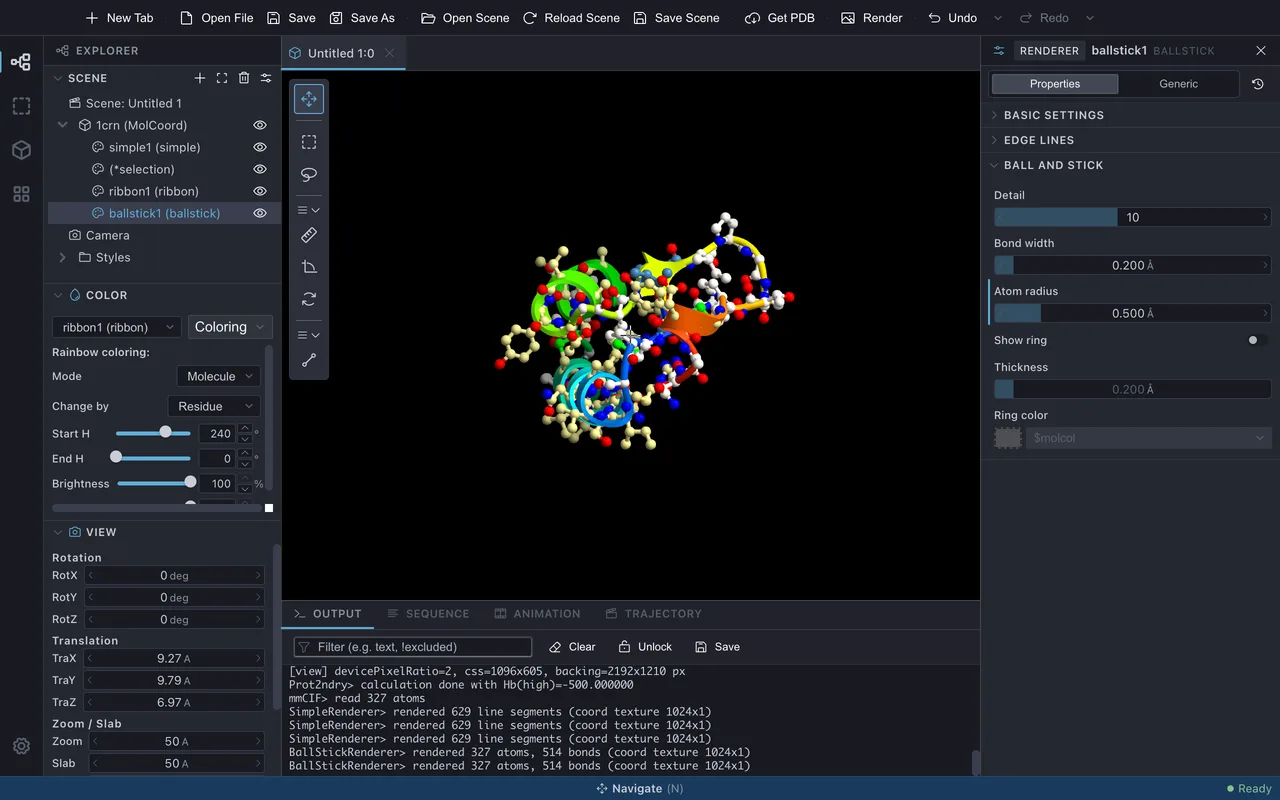
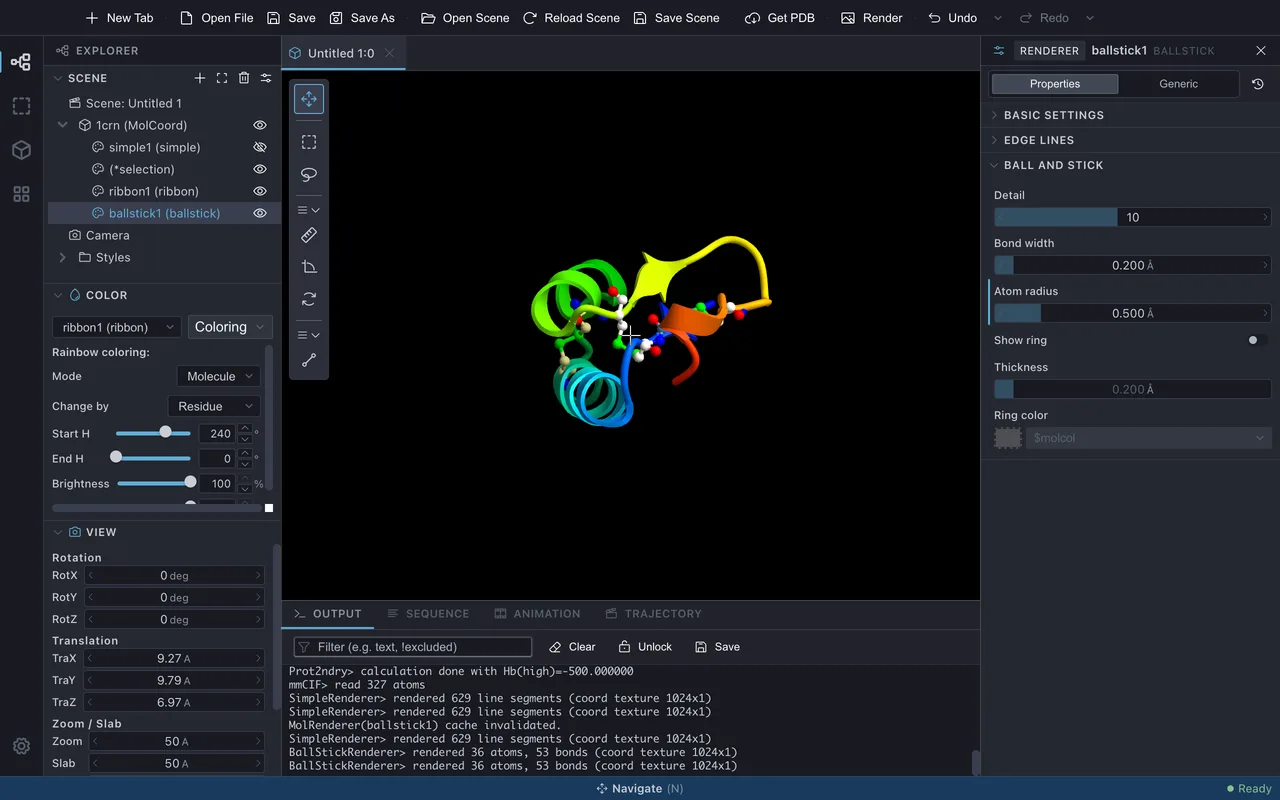
Show ballstick on the disulfide cysteines via the selection builder
Applying ballstick to the whole molecule is not how it is used in
practice. The quick tour now creates it with a selection composed in the
selection builder (Term tab, keyword resn, value CYS from the candidate
list, Set), introducing the builder along the way, and then hides the
now-redundant simple renderer with the scene tree's eye icon (replacing
the standalone bullet about the eye toggle).

The spec drives the builder popover end-to-end, asserts the committed
expression, and verifies via the render log that the renderer draws far
fewer atoms than the whole molecule (36 vs 327). New sceneTree helpers
toggle and inspect a row's visibility eye. Three new shots (builder,
filled dialog, tree with simple1 hidden) and refreshed result images.

Changed region(s): [[0.375, 0.25, 0.625, 0.5625], [0.2188, 0.8125, 0.5938, 0.9688]]

diff --git a/docs-verify/specs/quick-tour.spec.ts b/docs-verify/specs/quick-tour.spec.ts
@@ -5,7 +5,7 @@
  * test.step carries the section wording so the two can be diffed by grep.
  * Update this spec whenever the page changes (and vice versa).
  */
-import { test, expect } from '@playwright/test';
+import { test, expect, type Locator } from '@playwright/test';
 import * as fs from 'node:fs';
 import { CueMolHarness } from '../fixtures/app';
 import { artifacts } from '../support/env';
@@ -17,7 +17,14 @@ import {
     expectDialogClosed,
     expectSaveDialog,
 } from '../helpers/dialogs';
-import { expectRow, selectRow, openInInspector, clickSceneToolbar } from '../helpers/sceneTree';
+import {
+    expectRow,
+    selectRow,
+    openInInspector,
+    clickSceneToolbar,
+    toggleRowVisibility,
+    rowVisibilityToggle,
+} from '../helpers/sceneTree';
 import { setNumericProperty } from '../helpers/inspector';
 import { selectColorTarget, chooseColoring } from '../helpers/colorPane';
 import { rotateView, zoomView } from '../helpers/molView';
@@ -103,13 +110,18 @@ test.describe.serial('クイックツアー', { tag: '@net' }, () => {
         // Playwright cannot click; the Scene panel toolbar's Add button
         // opens the same New Renderer flow, so the dialog contents are
         // still verified end-to-end.
-        const addRenderer = async (type: string, expectName: string, shotId?: string) => {
+        const addRenderer = async (
+            type: string,
+            expectName: string,
+            opts: { shotId?: string; configure?: (dlg: Locator) => Promise<void> } = {},
+        ) => {
             await selectRow(harness.window, OBJ_NAME);
             await clickSceneToolbar(harness.window, 'add');
             const dlg = dialog(harness.window, 'New Renderer');
             await expect(dlg).toBeVisible();
             await dlg.locator('#rend-type').selectOption(type);
-            if (shotId) await docShot(harness.window, shotId, { clip: dlg });
+            await opts.configure?.(dlg);
+            if (opts.shotId) await docShot(harness.window, opts.shotId, { clip: dlg });
             await clickDialogButton(harness.window, 'New Renderer', 'Create');
             await expectDialogClosed(harness.window, 'New Renderer');
             await expectRow(harness.window, expectName);
@@ -122,9 +134,52 @@ test.describe.serial('クイックツアー', { tag: '@net' }, () => {
                 clip: harness.window.locator('.sp-pane').first(),
             });
             // 「二次構造がわかるように、ribbon を追加してみます。」
-            await addRenderer('ribbon', 'ribbon1', 'getting-started/quick-tour/3-new-renderer');
-            // 「同じ手順で ballstick も追加してみてください。」
-            await addRenderer('ballstick', 'ballstick1');
+            await addRenderer('ribbon', 'ribbon1', { shotId: 'getting-started/quick-tour/3-new-renderer' });
+
+            // 「次に、ジスルフィド結合を作っている Cys 残基だけを ballstick で
+            // 表示してみます。」 The selection is composed with the selection
+            // builder (Term tab, keyword resn, value CYS), as the docs describe.
+            const mark = harness.logs.mark();
+            await addRenderer('ballstick', 'ballstick1', {
+                shotId: 'getting-started/quick-tour/3-ballstick-selection',
+                configure: async (dlg) => {
+                    await dlg.getByText('Selection', { exact: true }).click();
+                    await dlg.getByRole('button', { name: 'Build selection' }).click();
+                    const builder = harness.window.locator('.selbuilder');
+                    await expect(builder).toBeVisible();
+                    await builder.getByRole('radio', { name: 'Term', exact: true }).click();
+                    await builder.getByLabel('Term keyword').selectOption('resn');
+                    // 「値の欄の ▼ から候補を開き、CYS を選びます」
+                    await builder.getByTitle('Show candidate values').click();
+                    const candidates = harness.window.locator('.h3-form-combobox-menu');
+                    await expect(candidates).toBeVisible();
+                    await candidates.getByText('CYS', { exact: true }).click();
+                    // The Set button carries a hit-count badge; shoot before
+                    // pressing it, as the docs' step 7 image shows.
+                    await docShot(harness.window, 'getting-started/quick-tour/3-selection-builder', {
+                        clip: builder,
+                    });
+                    await builder.getByRole('button', { name: /^Set/ }).click();
+                    // Toggle the builder closed; MolSelList commits on close.
+                    await dlg.getByRole('button', { name: 'Build selection' }).click();
+                    await expect(builder).toBeHidden();
+                    await expect(dlg.getByPlaceholder('* (all atoms)')).toHaveValue('resn CYS');
+                },
+            });
+            // The selection must actually narrow the renderer: 1CRN has 327
+            // atoms, its six cysteines far fewer.
+            const line = await harness.logs.waitForLine('BallStickRenderer> rendered', { from: mark });
+            const atoms = Number(/rendered (\d+) atoms/.exec(line)?.[1]);
+            expect(atoms).toBeGreaterThan(0);
+            expect(atoms).toBeLessThan(100);
+
+            // 「最初の線画はもう不要なので、シーンツリーの simple1 の行の
+            // 目のアイコンをクリックして非表示にします。」
+            await toggleRowVisibility(harness.window, 'simple1');
+            await expect(rowVisibilityToggle(harness.window, 'simple1')).toHaveClass(/hidden/);
+            await docShot(harness.window, 'getting-started/quick-tour/3-hide-simple', {
+                clip: harness.window.locator('.sp-pane').first(),
+            });
         });
 
         await test.step('見た目を調整する', async () => {

diff --git a/docs-verify/helpers/sceneTree.ts b/docs-verify/helpers/sceneTree.ts
@@ -31,6 +31,21 @@ export async function openInInspector(window: Page, name: string): Promise<void>
 }
 
 /**
+ * The eye button in a row's secondary label. Icon-only with no accessible
+ * name, so it is addressed by class; its className carries the state
+ * ("visible" / "hidden"). Recorded as an upstream data-testid candidate.
+ */
+export function rowVisibilityToggle(window: Page, name: string): Locator {
+    return sceneRow(window, name)
+        .locator('xpath=ancestor::div[contains(@class, "bp5-tree-node-content")]')
+        .locator('.visibility-toggle');
+}
+
+export async function toggleRowVisibility(window: Page, name: string): Promise<void> {
+    await rowVisibilityToggle(window, name).click();
+}
+
+/**
  * The Scene section's toolbar buttons (Add / Focus / Delete / Property)
  * share one class and carry no accessible names; they are addressed by
  * position. Recorded as an upstream data-testid candidate.

diff --git a/docs/ja/getting-started/quick-tour.md b/docs/ja/getting-started/quick-tour.md
@@ -57,14 +57,39 @@ PDB ID がわかっている構造は、**File &gt; Get PDB...** で取得する
     ![New Renderer ダイアログ](../../assets/images/getting-started/quick-tour/3-new-renderer.webp){ width="480" .on-glb }
 
 線画に重なって、ヘリックスとシートは板状のリボン、それ以外は細いチューブで
-描かれます。同じ手順で **ballstick** も追加してみてください。原子を球、結合を
-円柱で描くモデルが重なります。
+描かれます。
+
+次に、ジスルフィド結合を作っている Cys 残基だけを **ballstick** (原子を球、結合を
+円柱で描くモデル) で表示してみます。Renderer は**選択式**で対象の原子を絞り込めます
+(→ [選択式の文法](../reference/selection.md))。ここでは式を手で書くかわりに、
+[選択ビルダー](../ui/selection-builder.md)で組み立てます。
+
+1. 同じ手順で Object (`1crn`) を右クリックし、**New Renderer** を選びます
+2. **Renderer type** から **ballstick** を選びます
+3. **Selection** にチェックを入れます
+4. 選択式の欄の右端の ▼ を押して、選択ビルダーを開きます
+5. **Term** タブに切り替え、キーワードから **resn** (残基名) を選びます
+6. 値の欄の ▼ から候補を開き、**CYS** を選びます
+7. **Set** を押します。選択式の欄に `resn CYS` と入力されます
+
+    ![選択ビルダーの Term タブで resn CYS を組み立てたところ](../../assets/images/getting-started/quick-tour/3-selection-builder.webp){ width="228" .on-glb }
+
+8. **Create** を押します
+
+    ![Selection を指定した New Renderer ダイアログ](../../assets/images/getting-started/quick-tour/3-ballstick-selection.webp){ width="480" .on-glb }
+
+リボンに重なって、6 個の Cys 残基だけが球と円柱で描かれます。クランビンでは
+これらが 3 対のジスルフィド結合を作っています。
+
+最初の線画はもう不要なので、シーンツリーの `simple1` の行の**目のアイコン**を
+クリックして非表示にします。目のアイコンでは Renderer ごとの表示・非表示を
+いつでも切り替えられます。
+
+![simple1 を非表示にしたシーンツリー](../../assets/images/getting-started/quick-tour/3-hide-simple.webp){ width="237" .on-glb }
 
 - Renderer は種類を選ぶと**すぐに既定値で作成**され、細かい設定は後から
   インスペクタで調整します (この方針は [操作パラダイムの変更](../changes/ui-paradigm.md) を参照)
 - 定義済みの組み合わせ (プリセット) を選ぶと、複数の Renderer をまとめたグループが一度に作られます
-- 表示が込み合ってきたら、シーンツリーの**目のアイコン**で Renderer ごとに
-  表示・非表示を切り替えられます
 
 ### 見た目を調整する
 
@@ -91,7 +116,7 @@ PDB ID がわかっている構造は、**File &gt; Get PDB...** で取得する
 リボンが N 末端から C 末端へ虹色に塗り替わります。Coloring には Paint / CPK /
 B-factor / 静電ポテンシャルなどの種類があります (→ [Coloring](../reference/coloring.md))。
 
-![ribbon と ballstick を重ね、ribbon を Rainbow coloring で塗り替えたところ](../../assets/images/getting-started/quick-tour/3-styled.webp){ .on-glb }
+![ribbon に Cys 残基の ballstick を重ね、ribbon を Rainbow coloring で塗り替えたところ](../../assets/images/getting-started/quick-tour/3-styled.webp){ .on-glb }
 
 ### 視点を動かす
 
